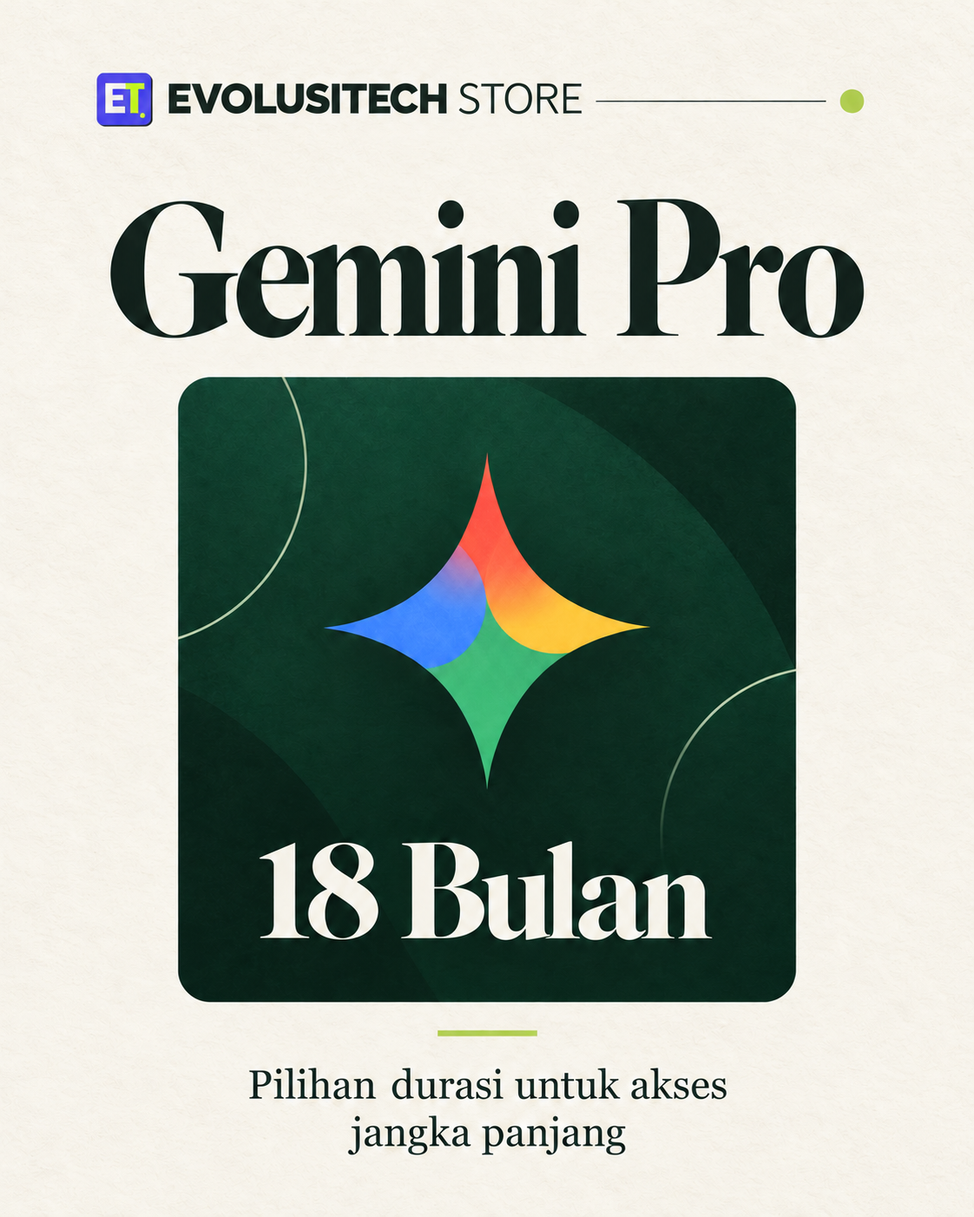
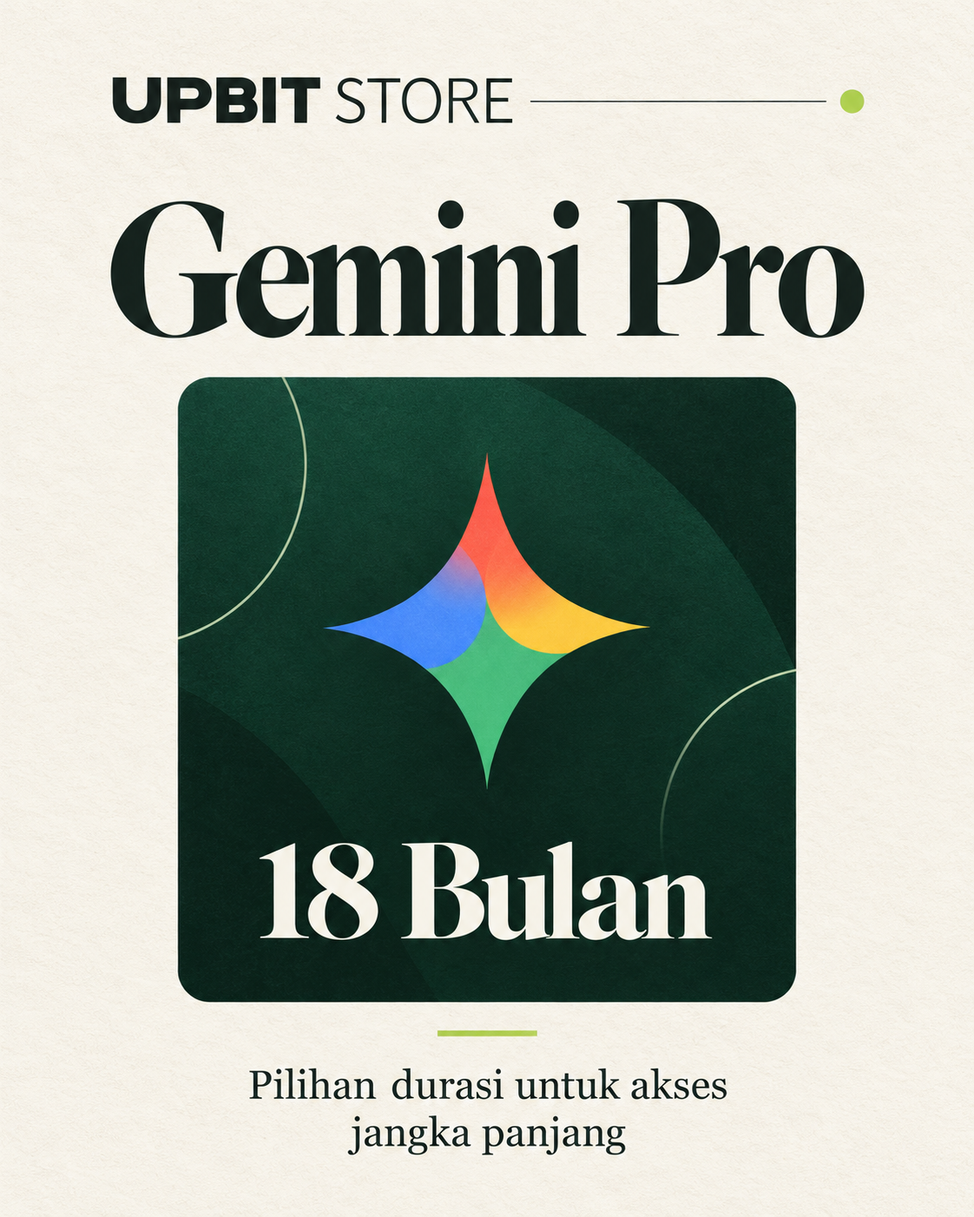
Revert "Rebrand storefront as EvolusiTech Store"
This reverts commit b58186610e1681eb4246e9f9dd9002b4fabe0f37.

diff --git a/app/src/i18n/translations.js b/app/src/i18n/translations.js
@@ -1,5 +1,5 @@
-// Kamus multi-bahasa EvolusiTech Store. Struktur per-key: { key: { en, zh, ja, id, ru, ms, hi, de, vi } }.
-// Brand & nama produk (EvolusiTech Store, Claude, ChatGPT, Gemini, AI) tidak diterjemahkan.
+// Kamus multi-bahasa Upbit Store. Struktur per-key: { key: { en, zh, ja, id, ru, ms, hi, de, vi } }.
+// Brand & nama produk (Upbit Store, Claude, ChatGPT, Gemini, AI) tidak diterjemahkan.
 
 // Daftar bahasa untuk switcher. `name` = nama asli bahasa, `tag` = label singkat.
 export const LANGS = [
@@ -93,11 +93,11 @@ export const T = {
   'footer.warranty': { en: 'Warranty', zh: '保障', ja: '保証', id: 'Garansi', ru: 'Гарантия', ms: 'Jaminan', hi: 'वारंटी', de: 'Garantie', vi: 'Bảo hành' },
   'footer.contact': { en: 'Contact', zh: '联系', ja: 'お問い合わせ', id: 'Kontak', ru: 'Контакты', ms: 'Hubungi', hi: 'संपर्क', de: 'Kontakt', vi: 'Liên hệ' },
   'footer.faq': { en: 'FAQ', zh: '常见问题', ja: 'よくある質問', id: 'FAQ', ru: 'Вопросы', ms: 'Soalan Lazim', hi: 'सामान्य प्रश्न', de: 'FAQ', vi: 'Câu hỏi' },
-  'footer.rights': { en: '© 2026 EvolusiTech Store. All rights reserved.', zh: '© 2026 EvolusiTech Store. 版权所有。', ja: '© 2026 EvolusiTech Store. 無断転載を禁じます。', id: '© 2026 EvolusiTech Store. Seluruh hak cipta dilindungi.', ru: '© 2026 EvolusiTech Store. Все права защищены.', ms: '© 2026 EvolusiTech Store. Hak cipta terpelihara.', hi: '© 2026 EvolusiTech Store. सर्वाधिकार सुरक्षित।', de: '© 2026 EvolusiTech Store. Alle Rechte vorbehalten.', vi: '© 2026 EvolusiTech Store. Bảo lưu mọi quyền.' },
+  'footer.rights': { en: '© 2026 Upbit Store. All rights reserved.', zh: '© 2026 Upbit Store. 版权所有。', ja: '© 2026 Upbit Store. 無断転載を禁じます。', id: '© 2026 Upbit Store. Seluruh hak cipta dilindungi.', ru: '© 2026 Upbit Store. Все права защищены.', ms: '© 2026 Upbit Store. Hak cipta terpelihara.', hi: '© 2026 Upbit Store. सर्वाधिकार सुरक्षित।', de: '© 2026 Upbit Store. Alle Rechte vorbehalten.', vi: '© 2026 Upbit Store. Bảo lưu mọi quyền.' },
   'footer.madeFor': { en: 'Built for digital creators & professionals.', zh: '为数字创作者与专业人士打造。', ja: 'デジタルクリエイター＆プロのために。', id: 'Dibuat untuk kreator & profesional digital.', ru: 'Создано для цифровых креаторов и профессионалов.', ms: 'Dibina untuk kreator & profesional digital.', hi: 'डिजिटल क्रिएटर्स और पेशेवरों के लिए बनाया गया।', de: 'Für digitale Kreative & Profis entwickelt.', vi: 'Dành cho nhà sáng tạo & chuyên gia số.' },
 
   // ---------- Auth ----------
-  'auth.welcome': { en: 'WELCOME TO EVOLUSITECH STORE', zh: '欢迎来到 EVOLUSITECH STORE', ja: 'EVOLUSITECH STORE へようこそ', id: 'SELAMAT DATANG DI EVOLUSITECH STORE', ru: 'ДОБРО ПОЖАЛОВАТЬ В EVOLUSITECH STORE', ms: 'SELAMAT DATANG KE EVOLUSITECH STORE', hi: 'EVOLUSITECH STORE में आपका स्वागत है', de: 'WILLKOMMEN BEI EVOLUSITECH STORE', vi: 'CHÀO MỪNG ĐẾN EVOLUSITECH STORE' },
+  'auth.welcome': { en: 'WELCOME TO UPBIT STORE', zh: '欢迎来到 UPBIT STORE', ja: 'UPBIT STORE へようこそ', id: 'SELAMAT DATANG DI UPBIT STORE', ru: 'ДОБРО ПОЖАЛОВАТЬ В UPBIT STORE', ms: 'SELAMAT DATANG KE UPBIT STORE', hi: 'UPBIT STORE में आपका स्वागत है', de: 'WILLKOMMEN BEI UPBIT STORE', vi: 'CHÀO MỪNG ĐẾN UPBIT STORE' },
   'auth.premiumBadge': { en: 'Premium AI Marketplace', zh: '高级 AI 市场', ja: 'プレミアムAIマーケット', id: 'Marketplace AI Premium', ru: 'Премиум AI-маркетплейс', ms: 'Pasaran AI Premium', hi: 'प्रीमियम AI मार्केटप्लेस', de: 'Premium-KI-Marktplatz', vi: 'Sàn AI cao cấp' },
   'auth.subtitle': { en: 'Access Claude, ChatGPT, Gemini, and dozens of other premium AI services — legal, instant, guaranteed.', zh: '畅享 Claude、ChatGPT、Gemini 等数十种高级 AI 服务 — 正版、即时、有保障。', ja: 'Claude、ChatGPT、Gemini など数十のプレミアムAIサービスにアクセス — 正規・即時・保証付き。', id: 'Akses Claude, ChatGPT, Gemini, dan puluhan layanan AI premium lain — legal, instan, bergaransi.', ru: 'Доступ к Claude, ChatGPT, Gemini и десяткам других премиум AI-сервисов — легально, мгновенно, с гарантией.', ms: 'Akses Claude, ChatGPT, Gemini, dan puluhan perkhidmatan AI premium lain — sah, segera, dijamin.', hi: 'Claude, ChatGPT, Gemini और दर्जनों अन्य प्रीमियम AI सेवाओं तक पहुंच — वैध, तुरंत, गारंटीड।', de: 'Zugang zu Claude, ChatGPT, Gemini und Dutzenden weiteren Premium-KI-Diensten — legal, sofort, garantiert.', vi: 'Truy cập Claude, ChatGPT, Gemini và hàng chục dịch vụ AI cao cấp khác — hợp pháp, tức thì, bảo đảm.' },
   'auth.feature1': { en: 'Full warranty on every product', zh: '每件产品全面保障', ja: '全製品に完全保証', id: 'Garansi penuh setiap produk', ru: 'Полная гарантия на каждый товар', ms: 'Jaminan penuh setiap produk', hi: 'हर उत्पाद पर पूर्ण वारंटी', de: 'Volle Garantie auf jedes Produkt', vi: 'Bảo hành đầy đủ mọi sản phẩm' },
@@ -107,7 +107,7 @@ export const T = {
   'auth.signInAccount': { en: 'Sign In', zh: '账户登录', ja: 'アカウントログイン', id: 'Masuk Akun', ru: 'Вход в аккаунт', ms: 'Log Masuk Akaun', hi: 'खाता साइन इन', de: 'Konto-Anmeldung', vi: 'Đăng nhập tài khoản' },
   'auth.signIn': { en: 'SIGN IN', zh: '登录', ja: 'ログイン', id: 'MASUK', ru: 'ВОЙТИ', ms: 'LOG MASUK', hi: 'साइन इन', de: 'ANMELDEN', vi: 'ĐĂNG NHẬP' },
   'auth.signInSubtitle': { en: 'Sign in with your Google account to start shopping premium digital products.', zh: '使用您的 Google 账户登录，开始选购高级数字产品。', ja: 'Googleアカウントでログインして、プレミアムなデジタル製品の購入を始めましょう。', id: 'Masuk dengan akun Google kamu untuk mulai belanja produk digital premium.', ru: 'Войдите через аккаунт Google, чтобы начать покупки премиум цифровых товаров.', ms: 'Log masuk dengan akaun Google anda untuk mula membeli produk digital premium.', hi: 'प्रीमियम डिजिटल उत्पाद खरीदना शुरू करने के लिए अपने Google खाते से साइन इन करें।', de: 'Melden Sie sich mit Ihrem Google-Konto an, um Premium-Digitalprodukte zu kaufen.', vi: 'Đăng nhập bằng tài khoản Google để bắt đầu mua sản phẩm số cao cấp.' },
-  'auth.terms': { en: "By continuing you agree to EvolusiTech Store's Terms & Privacy Policy.", zh: '继续即表示您同意 EvolusiTech Store 的条款与隐私政策。', ja: '続行すると、EvolusiTech Store の利用規約とプライバシーポリシーに同意したものとみなされます。', id: 'Dengan melanjutkan kamu menyetujui Ketentuan & Kebijakan Privasi EvolusiTech Store.', ru: 'Продолжая, вы соглашаетесь с Условиями и Политикой конфиденциальности EvolusiTech Store.', ms: 'Dengan meneruskan, anda bersetuju dengan Terma & Dasar Privasi EvolusiTech Store.', hi: 'जारी रखकर आप EvolusiTech Store की शर्तों और गोपनीयता नीति से सहमत होते हैं।', de: 'Indem Sie fortfahren, stimmen Sie den AGB & Datenschutzbestimmungen von EvolusiTech Store zu.', vi: 'Khi tiếp tục, bạn đồng ý với Điều khoản & Chính sách bảo mật của EvolusiTech Store.' },
+  'auth.terms': { en: "By continuing you agree to Upbit Store's Terms & Privacy Policy.", zh: '继续即表示您同意 Upbit Store 的条款与隐私政策。', ja: '続行すると、Upbit Store の利用規約とプライバシーポリシーに同意したものとみなされます。', id: 'Dengan melanjutkan kamu menyetujui Ketentuan & Kebijakan Privasi Upbit Store.', ru: 'Продолжая, вы соглашаетесь с Условиями и Политикой конфиденциальности Upbit Store.', ms: 'Dengan meneruskan, anda bersetuju dengan Terma & Dasar Privasi Upbit Store.', hi: 'जारी रखकर आप Upbit Store की शर्तों और गोपनीयता नीति से सहमत होते हैं।', de: 'Indem Sie fortfahren, stimmen Sie den AGB & Datenschutzbestimmungen von Upbit Store zu.', vi: 'Khi tiếp tục, bạn đồng ý với Điều khoản & Chính sách bảo mật của Upbit Store.' },
   'auth.accountAccess': { en: 'Account access', id: 'Akses akun' },
   'auth.createAccount': { en: 'Create account', id: 'Buat akun' },
   'auth.createAccountSubtitle': { en: 'Use a username, email, and password. No verification code is required.', id: 'Gunakan username, email, dan password. Tidak perlu kode verifikasi.' },
@@ -399,9 +399,9 @@ export const T = {
   'pd.related': { en: 'SIMILAR PRODUCTS', zh: '类似产品', ja: '関連製品', id: 'PRODUK SERUPA', ru: 'ПОХОЖИЕ ТОВАРЫ', ms: 'PRODUK SERUPA', hi: 'समान उत्पाद', de: 'ÄHNLICHE PRODUKTE', vi: 'SẢN PHẨM TƯƠNG TỰ' },
 
   // ---------- About ----------
-  'about.eyebrow': { en: 'About EvolusiTech Store', zh: '关于 EvolusiTech Store', ja: 'EvolusiTech Store について', id: 'Tentang EvolusiTech Store', ru: 'Об EvolusiTech Store', ms: 'Tentang EvolusiTech Store', hi: 'EvolusiTech Store के बारे में', de: 'Über EvolusiTech Store', vi: 'Về EvolusiTech Store' },
+  'about.eyebrow': { en: 'About Upbit Store', zh: '关于 Upbit Store', ja: 'Upbit Store について', id: 'Tentang Upbit Store', ru: 'Об Upbit Store', ms: 'Tentang Upbit Store', hi: 'Upbit Store के बारे में', de: 'Über Upbit Store', vi: 'Về Upbit Store' },
   'about.title': { en: 'PREMIUM DIGITAL PRODUCTS, INSTANT & GUARANTEED', zh: '高级数字产品，即时且有保障', ja: 'プレミアムなデジタル製品を即時・保証付きで', id: 'PRODUK DIGITAL PREMIUM, INSTAN & BERGARANSI', ru: 'ПРЕМИУМ ЦИФРОВЫЕ ТОВАРЫ, МГНОВЕННО И С ГАРАНТИЕЙ', ms: 'PRODUK DIGITAL PREMIUM, SEGERA & DIJAMIN', hi: 'प्रीमियम डिजिटल उत्पाद, तुरंत और गारंटीड', de: 'PREMIUM-DIGITALPRODUKTE, SOFORT & GARANTIERT', vi: 'SẢN PHẨM SỐ CAO CẤP, TỨC THÌ & BẢO ĐẢM' },
-  'about.intro': { en: 'EvolusiTech Store is a digital product marketplace selling premium AI accounts, software, and subscriptions — legal, verified, with full warranty and instant delivery.', zh: 'EvolusiTech Store 是一个数字产品市场，销售高级 AI 账户、软件和订阅 — 正版、已验证、提供完整保障和即时交付。', ja: 'EvolusiTech Store は、プレミアムなAIアカウント、ソフト、サブスクを販売するデジタル製品マーケットプレイスです — 正規・認証済み・完全保証・即時配信。', id: 'EvolusiTech Store adalah marketplace produk digital yang menjual akun AI premium, software, dan langganan — legal, terverifikasi, dengan garansi penuh dan proses instan.', ru: 'EvolusiTech Store — маркетплейс цифровых товаров: премиум AI-аккаунты, ПО и подписки — легально, проверено, с полной гарантией и мгновенной доставкой.', ms: 'EvolusiTech Store ialah pasaran produk digital yang menjual akaun AI premium, perisian, dan langganan — sah, disahkan, dengan jaminan penuh dan penghantaran segera.', hi: 'EvolusiTech Store एक डिजिटल उत्पाद मार्केटप्लेस है जो प्रीमियम AI खाते, सॉफ़्टवेयर और सब्सक्रिप्शन बेचता है — वैध, सत्यापित, पूर्ण वारंटी और तुरंत डिलीवरी के साथ।', de: 'EvolusiTech Store ist ein Marktplatz für digitale Produkte: Premium-KI-Konten, Software und Abos — legal, verifiziert, mit voller Garantie und sofortiger Lieferung.', vi: 'EvolusiTech Store là sàn sản phẩm số bán tài khoản AI cao cấp, phần mềm và gói đăng ký — hợp pháp, đã xác minh, bảo hành đầy đủ và giao ngay.' },
+  'about.intro': { en: 'Upbit Store is a digital product marketplace selling premium AI accounts, software, and subscriptions — legal, verified, with full warranty and instant delivery.', zh: 'Upbit Store 是一个数字产品市场，销售高级 AI 账户、软件和订阅 — 正版、已验证、提供完整保障和即时交付。', ja: 'Upbit Store は、プレミアムなAIアカウント、ソフト、サブスクを販売するデジタル製品マーケットプレイスです — 正規・認証済み・完全保証・即時配信。', id: 'Upbit Store adalah marketplace produk digital yang menjual akun AI premium, software, dan langganan — legal, terverifikasi, dengan garansi penuh dan proses instan.', ru: 'Upbit Store — маркетплейс цифровых товаров: премиум AI-аккаунты, ПО и подписки — легально, проверено, с полной гарантией и мгновенной доставкой.', ms: 'Upbit Store ialah pasaran produk digital yang menjual akaun AI premium, perisian, dan langganan — sah, disahkan, dengan jaminan penuh dan penghantaran segera.', hi: 'Upbit Store एक डिजिटल उत्पाद मार्केटप्लेस है जो प्रीमियम AI खाते, सॉफ़्टवेयर और सब्सक्रिप्शन बेचता है — वैध, सत्यापित, पूर्ण वारंटी और तुरंत डिलीवरी के साथ।', de: 'Upbit Store ist ein Marktplatz für digitale Produkte: Premium-KI-Konten, Software und Abos — legal, verifiziert, mit voller Garantie und sofortiger Lieferung.', vi: 'Upbit Store là sàn sản phẩm số bán tài khoản AI cao cấp, phần mềm và gói đăng ký — hợp pháp, đã xác minh, bảo hành đầy đủ và giao ngay.' },
   'about.howTitle': { en: 'HOW TO ORDER', zh: '如何下单', ja: '注文方法', id: 'CARA ORDER', ru: 'КАК ЗАКАЗАТЬ', ms: 'CARA MEMBELI', hi: 'ऑर्डर कैसे करें', de: 'SO BESTELLEN', vi: 'CÁCH ĐẶT HÀNG' },
   'about.howSub': { en: 'Just 4 easy steps to get your premium product.', zh: '只需 4 个简单步骤即可获得您的高级产品。', ja: 'たった4つの簡単なステップでプレミアム製品を入手。', id: 'Hanya 4 langkah mudah untuk mendapatkan produk premiummu.', ru: 'Всего 4 простых шага, чтобы получить премиум-продукт.', ms: 'Hanya 4 langkah mudah untuk dapatkan produk premium anda.', hi: 'अपना प्रीमियम उत्पाद पाने के लिए केवल 4 आसान चरण।', de: 'Nur 4 einfache Schritte zu Ihrem Premium-Produkt.', vi: 'Chỉ 4 bước đơn giản để nhận sản phẩm cao cấp của bạn.' },
   'about.step1Title': { en: 'Choose a product', zh: '选择产品', ja: '製品を選ぶ', id: 'Pilih produk', ru: 'Выберите товар', ms: 'Pilih produk', hi: 'उत्पाद चुनें', de: 'Produkt wählen', vi: 'Chọn sản phẩm' },
@@ -437,7 +437,7 @@ export const T = {
   'about.ctaBtn': { en: 'Open Catalog', zh: '打开目录', ja: 'カタログを開く', id: 'Buka Katalog', ru: 'Открыть каталог', ms: 'Buka Katalog', hi: 'कैटलॉग खोलें', de: 'Katalog öffnen', vi: 'Mở danh mục' },
   'about.eyebrow2': { en: 'About & How to Order', zh: '关于与购买指南', ja: '概要と注文方法', id: 'Tentang & Cara Order', ru: 'О нас и как заказать', ms: 'Tentang & Cara Membeli', hi: 'परिचय और ऑर्डर कैसे करें', de: 'Über uns & Bestellung', vi: 'Giới thiệu & Cách đặt' },
   'about.h1': { en: 'SHOPPING FOR DIGITAL PRODUCTS MADE EASY & SAFE', zh: '购买数字产品变得简单又安全', ja: 'デジタル製品の購入を簡単・安全に', id: 'BELANJA PRODUK DIGITAL JADI MUDAH & AMAN', ru: 'ПОКУПКА ЦИФРОВЫХ ТОВАРОВ — ЛЕГКО И БЕЗОПАСНО', ms: 'MEMBELI PRODUK DIGITAL JADI MUDAH & SELAMAT', hi: 'डिजिटल उत्पादों की खरीदारी आसान और सुरक्षित', de: 'DIGITALE PRODUKTE EINFACH & SICHER KAUFEN', vi: 'MUA SẢN PHẨM SỐ DỄ DÀNG & AN TOÀN' },
-  'about.introReal': { en: 'EvolusiTech Store makes it easy to get AI access, software, and premium subscriptions at the best price. Follow the 4 steps below to order.', zh: 'EvolusiTech Store 让您以最优价格轻松获得 AI 访问、软件和高级订阅。按照下面 4 个步骤下单。', ja: 'EvolusiTech Store なら、AIアクセス、ソフト、プレミアムサブスクを最安値で簡単に入手できます。下の4ステップでご注文ください。', id: 'EvolusiTech Store hadir untuk memudahkan kamu mendapatkan akses AI, software, dan langganan premium dengan harga terbaik. Ikuti 4 langkah di bawah untuk memesan.', ru: 'EvolusiTech Store помогает легко получить доступ к AI, ПО и премиум-подпискам по лучшей цене. Следуйте 4 шагам ниже.', ms: 'EvolusiTech Store memudahkan anda mendapatkan akses AI, perisian, dan langganan premium pada harga terbaik. Ikut 4 langkah di bawah untuk memesan.', hi: 'EvolusiTech Store आपके लिए AI एक्सेस, सॉफ़्टवेयर और प्रीमियम सब्सक्रिप्शन सर्वोत्तम मूल्य पर पाना आसान बनाता है। ऑर्डर के लिए नीचे 4 चरण अपनाएं।', de: 'EvolusiTech Store macht es einfach, KI-Zugang, Software und Premium-Abos zum Bestpreis zu erhalten. Folgen Sie den 4 Schritten unten.', vi: 'EvolusiTech Store giúp bạn dễ dàng có quyền truy cập AI, phần mềm và gói cao cấp với giá tốt nhất. Làm theo 4 bước dưới để đặt hàng.' },
+  'about.introReal': { en: 'Upbit Store makes it easy to get AI access, software, and premium subscriptions at the best price. Follow the 4 steps below to order.', zh: 'Upbit Store 让您以最优价格轻松获得 AI 访问、软件和高级订阅。按照下面 4 个步骤下单。', ja: 'Upbit Store なら、AIアクセス、ソフト、プレミアムサブスクを最安値で簡単に入手できます。下の4ステップでご注文ください。', id: 'Upbit Store hadir untuk memudahkan kamu mendapatkan akses AI, software, dan langganan premium dengan harga terbaik. Ikuti 4 langkah di bawah untuk memesan.', ru: 'Upbit Store помогает легко получить доступ к AI, ПО и премиум-подпискам по лучшей цене. Следуйте 4 шагам ниже.', ms: 'Upbit Store memudahkan anda mendapatkan akses AI, perisian, dan langganan premium pada harga terbaik. Ikut 4 langkah di bawah untuk memesan.', hi: 'Upbit Store आपके लिए AI एक्सेस, सॉफ़्टवेयर और प्रीमियम सब्सक्रिप्शन सर्वोत्तम मूल्य पर पाना आसान बनाता है। ऑर्डर के लिए नीचे 4 चरण अपनाएं।', de: 'Upbit Store macht es einfach, KI-Zugang, Software und Premium-Abos zum Bestpreis zu erhalten. Folgen Sie den 4 Schritten unten.', vi: 'Upbit Store giúp bạn dễ dàng có quyền truy cập AI, phần mềm và gói cao cấp với giá tốt nhất. Làm theo 4 bước dưới để đặt hàng.' },
   'about.ctaText': { en: 'Browse the full catalog and get your premium product now.', zh: '浏览完整目录，立即获得您的高级产品。', ja: '全カタログを見て、今すぐプレミアム製品を入手しましょう。', id: 'Jelajahi katalog lengkap dan dapatkan produk premiummu sekarang.', ru: 'Просмотрите полный каталог и получите премиум-продукт сейчас.', ms: 'Layari katalog penuh dan dapatkan produk premium anda sekarang.', hi: 'पूरा कैटलॉग ब्राउज़ करें और अभी अपना प्रीमियम उत्पाद पाएं।', de: 'Durchsuchen Sie den vollständigen Katalog und holen Sie sich jetzt Ihr Premium-Produkt.', vi: 'Duyệt toàn bộ danh mục và nhận sản phẩm cao cấp của bạn ngay.' },
 
   // ---------- Notifikasi (lonceng) ----------
@@ -467,7 +467,7 @@ export const T = {
   'home.viewAll': { en: 'View all products', zh: '查看所有产品', ja: 'すべての製品を見る', id: 'Lihat semua produk', ru: 'Все товары', ms: 'Lihat semua produk', hi: 'सभी उत्पाद देखें', de: 'Alle Produkte ansehen', vi: 'Xem tất cả sản phẩm' },
   'home.ctaBadge': { en: 'Start Today', zh: '今天开始', ja: '今日から始める', id: 'Mulai Hari Ini', ru: 'Начните сегодня', ms: 'Mula Hari Ini', hi: 'आज शुरू करें', de: 'Heute starten', vi: 'Bắt đầu hôm nay' },
   'home.ctaTitle': { en: 'BOOST YOUR PRODUCTIVITY WITH TRUSTED PREMIUM ACCOUNTS', zh: '用值得信赖的高级账户提升您的生产力', ja: '信頼できるプレミアムアカウントで生産性を向上', id: 'UPGRADE PRODUKTIVITASMU DENGAN AKUN PREMIUM TERPERCAYA', ru: 'ПОВЫСЬТЕ ПРОДУКТИВНОСТЬ С НАДЁЖНЫМИ ПРЕМИУМ-АККАУНТАМИ', ms: 'TINGKATKAN PRODUKTIVITI ANDA DENGAN AKAUN PREMIUM DIPERCAYAI', hi: 'विश्वसनीय प्रीमियम खातों से अपनी उत्पादकता बढ़ाएं', de: 'STEIGERN SIE IHRE PRODUKTIVITÄT MIT VERTRAUENSWÜRDIGEN PREMIUM-KONTEN', vi: 'TĂNG NĂNG SUẤT VỚI TÀI KHOẢN CAO CẤP ĐÁNG TIN CẬY' },
-  'home.ctaText': { en: 'Thousands of customers already trust EvolusiTech Store for their digital needs. Now it’s your turn.', zh: '数千名客户已信赖 EvolusiTech Store 满足他们的数字需求。现在轮到您了。', ja: '何千ものお客様がデジタルニーズで EvolusiTech Store を信頼しています。次はあなたの番です。', id: 'Ribuan pelanggan sudah mempercayakan kebutuhan digital mereka pada EvolusiTech Store. Giliranmu sekarang.', ru: 'Тысячи клиентов уже доверяют EvolusiTech Store свои цифровые нужды. Теперь ваша очередь.', ms: 'Ribuan pelanggan sudah mempercayai EvolusiTech Store untuk keperluan digital mereka. Kini giliran anda.', hi: 'हजारों ग्राहक अपनी डिजिटल जरूरतों के लिए EvolusiTech Store पर भरोसा करते हैं। अब आपकी बारी।', de: 'Tausende Kunden vertrauen EvolusiTech Store bereits für ihre digitalen Bedürfnisse. Jetzt sind Sie dran.', vi: 'Hàng nghìn khách hàng đã tin tưởng EvolusiTech Store cho nhu cầu số. Giờ đến lượt bạn.' },
+  'home.ctaText': { en: 'Thousands of customers already trust Upbit Store for their digital needs. Now it’s your turn.', zh: '数千名客户已信赖 Upbit Store 满足他们的数字需求。现在轮到您了。', ja: '何千ものお客様がデジタルニーズで Upbit Store を信頼しています。次はあなたの番です。', id: 'Ribuan pelanggan sudah mempercayakan kebutuhan digital mereka pada Upbit Store. Giliranmu sekarang.', ru: 'Тысячи клиентов уже доверяют Upbit Store свои цифровые нужды. Теперь ваша очередь.', ms: 'Ribuan pelanggan sudah mempercayai Upbit Store untuk keperluan digital mereka. Kini giliran anda.', hi: 'हजारों ग्राहक अपनी डिजिटल जरूरतों के लिए Upbit Store पर भरोसा करते हैं। अब आपकी बारी।', de: 'Tausende Kunden vertrauen Upbit Store bereits für ihre digitalen Bedürfnisse. Jetzt sind Sie dran.', vi: 'Hàng nghìn khách hàng đã tin tưởng Upbit Store cho nhu cầu số. Giờ đến lượt bạn.' },
   'home.ctaBtn': { en: 'Explore Catalog', zh: '浏览目录', ja: 'カタログを見る', id: 'Jelajahi Katalog', ru: 'Открыть каталог', ms: 'Terokai Katalog', hi: 'कैटलॉग देखें', de: 'Katalog entdecken', vi: 'Khám phá danh mục' },
 
   // ---------- Sort ----------

diff --git a/server/src/telegramBot.js b/server/src/telegramBot.js
@@ -1,5 +1,5 @@
 // ═══════════════════════════════════════════════════════════════════
-// BOT TELEGRAM EVOLUSITECH STORE — versi serverless (webhook, tanpa VPS)
+// BOT TELEGRAM UPBIT STORE — versi serverless (webhook, tanpa VPS)
 // Satu dompet dengan website: saldo, check-in, order = database Neon.
 // State percakapan disimpan di tabel TelegramState (serverless tanpa memori).
 // SetWebhook:
@@ -137,20 +137,20 @@ const LANGS = {
 }
 const S = {
   welcome: {
-    id: '✨ <b>Selamat Datang di EvolusiTech Store!</b>\n━━━━━━━━━━━━━━━━━━\n👤 <b>Tamu (Guest)</b>\n💰 Saldo: <b>Rp 0 (Mode Tamu)</b>\n🔗 Status: <b>Belum Tertaut</b>\n\n🛍 <i>Jelajahi katalog & flash sale langsung di bawah!</i>\n💡 <i>Tautkan akun website kapan saja untuk sinkronisasi saldo & check-in.</i>\n\nPilih menu di bawah 👇',
-    en: '✨ <b>Welcome to EvolusiTech Store!</b>\n━━━━━━━━━━━━━━━━━━\n👤 <b>Guest</b>\n💰 Balance: <b>Rp 0 (Guest Mode)</b>\n🔗 Status: <b>Not Linked</b>\n\n🛍 <i>Browse products & flash sale below!</i>\n💡 <i>Link your website account anytime to sync balance & check-in.</i>\n\nPick a menu below 👇',
+    id: '✨ <b>Selamat Datang di Upbit Store!</b>\n━━━━━━━━━━━━━━━━━━\n👤 <b>Tamu (Guest)</b>\n💰 Saldo: <b>Rp 0 (Mode Tamu)</b>\n🔗 Status: <b>Belum Tertaut</b>\n\n🛍 <i>Jelajahi katalog & flash sale langsung di bawah!</i>\n💡 <i>Tautkan akun website kapan saja untuk sinkronisasi saldo & check-in.</i>\n\nPilih menu di bawah 👇',
+    en: '✨ <b>Welcome to Upbit Store!</b>\n━━━━━━━━━━━━━━━━━━\n👤 <b>Guest</b>\n💰 Balance: <b>Rp 0 (Guest Mode)</b>\n🔗 Status: <b>Not Linked</b>\n\n🛍 <i>Browse products & flash sale below!</i>\n💡 <i>Link your website account anytime to sync balance & check-in.</i>\n\nPick a menu below 👇',
   },
   menuLinked: {
-    id: '✨ <b>EvolusiTech Store — Bot Resmi</b>\n━━━━━━━━━━━━━━━━━━\n👤 <b>{name}</b>\n💰 Saldo: <b>{balance}</b>\n🔗 Status: <b>Terhubung ke Website ✅</b>\n\nSilakan pilih menu di bawah untuk berbelanja 👇',
-    en: '✨ <b>EvolusiTech Store — Official Bot</b>\n━━━━━━━━━━━━━━━━━━\n👤 <b>{name}</b>\n💰 Balance: <b>{balance}</b>\n🔗 Status: <b>Connected to Website ✅</b>\n\nPick a menu below 👇',
+    id: '✨ <b>Upbit Store — Bot Resmi</b>\n━━━━━━━━━━━━━━━━━━\n👤 <b>{name}</b>\n💰 Saldo: <b>{balance}</b>\n🔗 Status: <b>Terhubung ke Website ✅</b>\n\nSilakan pilih menu di bawah untuk berbelanja 👇',
+    en: '✨ <b>Upbit Store — Official Bot</b>\n━━━━━━━━━━━━━━━━━━\n👤 <b>{name}</b>\n💰 Balance: <b>{balance}</b>\n🔗 Status: <b>Connected to Website ✅</b>\n\nPick a menu below 👇',
   },
   menuGuest: {
-    id: '✨ <b>Selamat Datang di EvolusiTech Store!</b>\n━━━━━━━━━━━━━━━━━━\n👤 <b>Tamu (Guest)</b>\n💰 Saldo: <b>Rp 0 (Mode Tamu)</b>\n🔗 Status: <b>Belum Tertaut</b>\n\n🛍 <i>Jelajahi katalog & flash sale langsung di bawah!</i>\n💡 <i>Tautkan akun websitemu kapan saja untuk sinkronisasi saldo & check-in.</i>\n\nPilih menu di bawah 👇',
-    en: '✨ <b>Welcome to EvolusiTech Store!</b>\n━━━━━━━━━━━━━━━━━━\n👤 <b>Guest</b>\n💰 Balance: <b>Rp 0 (Guest Mode)</b>\n🔗 Status: <b>Not Linked</b>\n\n🛍 <i>Browse products & flash sale below!</i>\n💡 <i>Link your website account anytime to sync balance & check-in.</i>\n\nPick a menu below 👇',
+    id: '✨ <b>Selamat Datang di Upbit Store!</b>\n━━━━━━━━━━━━━━━━━━\n👤 <b>Tamu (Guest)</b>\n💰 Saldo: <b>Rp 0 (Mode Tamu)</b>\n🔗 Status: <b>Belum Tertaut</b>\n\n🛍 <i>Jelajahi katalog & flash sale langsung di bawah!</i>\n💡 <i>Tautkan akun websitemu kapan saja untuk sinkronisasi saldo & check-in.</i>\n\nPilih menu di bawah 👇',
+    en: '✨ <b>Welcome to Upbit Store!</b>\n━━━━━━━━━━━━━━━━━━\n👤 <b>Guest</b>\n💰 Balance: <b>Rp 0 (Guest Mode)</b>\n🔗 Status: <b>Not Linked</b>\n\n🛍 <i>Browse products & flash sale below!</i>\n💡 <i>Link your website account anytime to sync balance & check-in.</i>\n\nPick a menu below 👇',
   },
   menu: {
-    id: '✨ <b>EvolusiTech Store</b>\n━━━━━━━━━━━━━━━━━━\n👤 <b>{name}</b>\n💰 Saldo: <b>{balance}</b>\n\nPilih menu di bawah 👇',
-    en: '✨ <b>EvolusiTech Store</b>\n━━━━━━━━━━━━━━━━━━\n👤 <b>{name}</b>\n💰 Balance: <b>{balance}</b>\n\nPick a menu below 👇',
+    id: '✨ <b>Upbit Store</b>\n━━━━━━━━━━━━━━━━━━\n👤 <b>{name}</b>\n💰 Saldo: <b>{balance}</b>\n\nPilih menu di bawah 👇',
+    en: '✨ <b>Upbit Store</b>\n━━━━━━━━━━━━━━━━━━\n👤 <b>{name}</b>\n💰 Balance: <b>{balance}</b>\n\nPick a menu below 👇',
   },
   notLinked: {
     id: '🔐 <b>Akun belum terhubung</b>\n\nTekan tombol <b>🔗 Hubungkan Akun Website</b> di bawah ini → kamu dibawa ke website → setelah login, akun otomatis tersambung ke Telegram ini.\n\n✨ Bebas pakai Telegram siapa saja — asal jadi!',
@@ -173,8 +173,8 @@ const S = {
     en: '🔐 <b>Link Account to Complete Order</b>\n━━━━━━━━━━━━━━━━━━\nA website account is required so login credentials can be securely delivered to your email.\n\nTap below to link your website account in 1 click, or buy directly on the website:',
   },
   linked: {
-    id: '🎉 <b>Akun berhasil terhubung!</b>\n━━━━━━━━━━━━━━━━━━\n👤 {name}\n💰 Saldo: <b>{balance}</b>{migrated}\n\nSelamat bergabung resmi di EvolusiTech Store 🛍',
-    en: '🎉 <b>Account linked successfully!</b>\n━━━━━━━━━━━━━━━━━━\n👤 {name}\n💰 Balance: <b>{balance}</b>{migrated}\n\nWelcome officially to EvolusiTech Store 🛍',
+    id: '🎉 <b>Akun berhasil terhubung!</b>\n━━━━━━━━━━━━━━━━━━\n👤 {name}\n💰 Saldo: <b>{balance}</b>{migrated}\n\nSelamat bergabung resmi di Upbit Store 🛍',
+    en: '🎉 <b>Account linked successfully!</b>\n━━━━━━━━━━━━━━━━━━\n👤 {name}\n💰 Balance: <b>{balance}</b>{migrated}\n\nWelcome officially to Upbit Store 🛍',
   },
   migrated: {
     id: '\n🎁 Saldo lama bot <b>{amount}</b> sudah dipindahkan ke akun website kamu.',
@@ -264,7 +264,7 @@ async function spendOf(userId) {
 // Fitur tarik saldo (withdraw) dihapus — saldo hanya untuk belanja di toko.
 
 // ── Menu utama ──
-const BANNER_URL = STORE_URL + '/evolusitech-store-mark.png'
+const BANNER_URL = STORE_URL + '/logo.png'
 // Peta emoji kategori biar tombol katalog lebih hidup
 const CAT_EMOJI = [
   [/ai|asisten|assistant|chatbot/i, '🤖'],

diff --git a/app/src/index.css b/app/src/index.css
@@ -1,4 +1,4 @@
-/* ============ EvolusiTech Store — Design Tokens ============ */
+/* ============ Upbit Store — Design Tokens ============ */
 :root {
   --bg: #efece6;
   --bg-2: #e7e3da;
@@ -318,10 +318,11 @@ ul { list-style: none; }
 .site-nav.is-scrolled .brand-logo { height: 36px; }
 @media (max-width: 520px) { .brand-logo { height: 36px; } }
 
-/* EvolusiTech Store mark + wordmark. Live text stays crisp at every size. */
+/* Upbit Store mark + wordmark: the generated mark identifies the exchange/store idea;
+   live text keeps the name crisp at every size and makes it accessible to screen readers. */
 .brand-lockup { display: inline-flex; align-items: center; gap: 9px; line-height: 1; }
 .brand-mark { width: 38px; height: 38px; object-fit: contain; display: block; }
-.brand-wordmark { display: inline-flex; align-items: baseline; gap: 5px; font-family: var(--font-display); font-size: 16px; font-weight: 800; letter-spacing: -.035em; color: var(--ink); }
+.brand-wordmark { display: inline-flex; align-items: baseline; gap: 5px; font-family: var(--font-display); font-size: 17px; font-weight: 800; letter-spacing: -.025em; color: var(--ink); }
 .brand-wordmark span:first-child { color: var(--indigo); }
 .brand-wordmark span:last-child { color: var(--ink); }
 .brand-lockup-light .brand-wordmark { color: var(--bg); }
@@ -332,21 +333,8 @@ ul { list-style: none; }
 .sr-only { position: absolute; width: 1px; height: 1px; padding: 0; margin: -1px; overflow: hidden; clip: rect(0, 0, 0, 0); white-space: nowrap; border: 0; }
 @media (max-width: 520px) {
   .brand-lockup { gap: 7px; }
-  .brand-mark { width: 30px; height: 30px; }
-  .brand-wordmark {
-    flex-direction: column;
-    align-items: flex-start;
-    gap: 2px;
-    font-size: 10.5px;
-    line-height: .9;
-    letter-spacing: -.025em;
-  }
-  .brand-wordmark span:last-child { font-size: 8px; letter-spacing: .12em; }
-}
-@media (max-width: 360px) {
-  .site-nav-inner { padding-inline: 10px; }
-  .site-nav-inner > div:last-child { gap: 6px !important; }
-  .site-nav-inner > div:last-child > a[href="/cart"] { padding: 8px 10px !important; }
+  .brand-mark { width: 34px; height: 34px; }
+  .brand-wordmark { font-size: 15px; gap: 4px; }
 }
 
 /* ============ Mobile nav card dropdown ============ */

diff --git a/server/src/mailer.js b/server/src/mailer.js
@@ -1,7 +1,7 @@
 import nodemailer from 'nodemailer'
 
 const { SMTP_HOST, SMTP_PORT, SMTP_USER, SMTP_PASS, MAIL_FROM, CLIENT_ORIGIN } = process.env
-const FROM = MAIL_FROM || 'EvolusiTech Store <no-reply@upbitstore.local>'
+const FROM = MAIL_FROM || 'Upbit Store <no-reply@upbitstore.local>'
 const SITE = (CLIENT_ORIGIN || 'http://localhost:5173').split(',')[0]
 
 // Transport hanya dibuat bila SMTP dikonfigurasi. Tanpa itu → mode log (dev).
@@ -35,14 +35,14 @@ const shell = (title, bodyHtml) => `
 <div style="background:#efece6;padding:28px;font-family:Inter,Arial,sans-serif;color:#2b2b28">
   <div style="max-width:560px;margin:0 auto;background:#fff;border:1.5px solid #2b2b28;border-radius:18px;overflow:hidden">
     <div style="background:#2b2b28;padding:18px 24px">
-      <span style="font-family:'Space Grotesk',Arial,sans-serif;font-weight:700;font-size:18px;color:#fff;letter-spacing:.02em">EVOLUSITECH <span style="color:#c5f82a">STORE</span></span>
+      <span style="font-family:'Space Grotesk',Arial,sans-serif;font-weight:700;font-size:18px;color:#fff;letter-spacing:.02em">UPBIT <span style="color:#c5f82a">STORE</span></span>
     </div>
     <div style="padding:24px">
       <h1 style="font-size:19px;margin:0 0 12px">${title}</h1>
       ${bodyHtml}
     </div>
     <div style="padding:16px 24px;border-top:1px solid #e0ddd4;color:#8a887e;font-size:12px">
-      Email otomatis dari EvolusiTech Store. Mohon jangan balas email ini.
+      Email otomatis dari Upbit Store. Mohon jangan balas email ini.
     </div>
   </div>
 </div>`
@@ -64,7 +64,7 @@ export function sendOrderCreated(order) {
     </table>
     <a href="${SITE}/orders/${order.id}" style="display:inline-block;background:#4f46e5;color:#fff;text-decoration:none;font-weight:600;padding:12px 22px;border-radius:999px;font-size:14px">Lihat status pesanan</a>
   `)
-  send(order.deliveryEmail, `Pesanan ${order.id} diterima — EvolusiTech Store`, html)
+  send(order.deliveryEmail, `Pesanan ${order.id} diterima — Upbit Store`, html)
 }
 
 export function sendOrderCompleted(order) {

diff --git a/app/src/components/ReceiptModal.jsx b/app/src/components/ReceiptModal.jsx
@@ -54,15 +54,15 @@ export default function ReceiptModal({ order, onClose }) {
       // Logo (file lokal di /public — aman dibaca sebagai gambar)
       try {
         const img = new Image()
-        img.src = '/evolusitech-store-mark.png'
+        img.src = '/logo.png'
         await new Promise((ok, err) => { img.onload = ok; img.onerror = err })
         doc.addImage(img, 'PNG', 40, 36, 34, 34)
       } catch { /* logo gagal → lanjut tanpa logo */ }
 
       doc.setFont('helvetica', 'bold'); doc.setFontSize(17)
-      doc.text('EVOLUSITECH STORE', 84, 50)
+      doc.text('UPBIT STORE', 84, 50)
       doc.setFont('helvetica', 'normal'); doc.setFontSize(9); doc.setTextColor(110)
-      doc.text('Marketplace Produk Digital  ·  EvolusiTech Store', 84, 63)
+      doc.text('Marketplace Produk Digital  ·  Upbit Store', 84, 63)
       doc.setTextColor(20)
 
       y = 92
@@ -157,10 +157,10 @@ export default function ReceiptModal({ order, onClose }) {
       }}>
         {/* Kop struk */}
         <div style={{ display: 'flex', alignItems: 'center', gap: 11 }}>
-          <img src="/evolusitech-store-mark.svg" alt="Logo EvolusiTech Store" style={{ width: 40, height: 40, objectFit: 'contain' }} />
+          <img src="/upbit-store-mark.png" alt="Logo Upbit Store" style={{ width: 40, height: 40, objectFit: 'contain' }} />
           <div style={{ flex: 1 }}>
-            <div style={{ fontWeight: 900, fontSize: 16, letterSpacing: '.04em' }}>EVOLUSITECH STORE</div>
-            <div style={{ fontSize: 10.5, color: '#6f6f68' }}>Marketplace Produk Digital · EvolusiTech Store</div>
+            <div style={{ fontWeight: 900, fontSize: 16, letterSpacing: '.04em' }}>UPBIT STORE</div>
+            <div style={{ fontSize: 10.5, color: '#6f6f68' }}>Marketplace Produk Digital · Upbit Store</div>
           </div>
         </div>
 

diff --git a/app/index.html b/app/index.html
@@ -2,14 +2,14 @@
 <html lang="id">
   <head>
     <meta charset="UTF-8" />
-    <link rel="icon" type="image/svg+xml" href="/evolusitech-store-mark.svg" />
+    <link rel="icon" type="image/png" href="/upbit-store-mark.png" />
     <link rel="shortcut icon" href="/favicon.ico" />
     <meta name="viewport" content="width=device-width, initial-scale=1.0" />
-    <meta name="description" content="EvolusiTech Store, marketplace produk digital premium untuk akun AI, software, dan langganan terverifikasi." />
+    <meta name="description" content="Upbit Store, marketplace produk digital premium untuk akun AI, software, dan langganan terverifikasi." />
     <link rel="preconnect" href="https://fonts.googleapis.com" />
     <link rel="preconnect" href="https://fonts.gstatic.com" crossorigin />
     <link href="https://fonts.googleapis.com/css2?family=Inter:wght@400;500;600;700&family=Space+Grotesk:wght@500;600;700&display=swap" rel="stylesheet" />
-    <title>EvolusiTech Store | Marketplace Produk Digital</title>
+    <title>Upbit Store | Marketplace Produk Digital</title>
   </head>
   <body>
     <div id="root"></div>

diff --git a/app/src/components/AdminLayout.jsx b/app/src/components/AdminLayout.jsx
@@ -42,9 +42,9 @@ export default function AdminLayout({ children }) {
       {/* ===== Sidebar ===== */}
       <aside className={`admin-sidebar ${open ? 'is-open' : ''}`}>
         <div className="admin-brand">
-          <span className="admin-brand-mark"><img src="/evolusitech-store-mark.svg" alt="" width="28" height="28" /></span>
+          <span className="admin-brand-mark"><img src="/upbit-store-mark.png" alt="" width="28" height="28" /></span>
           <div>
-            <div className="admin-brand-name">EvolusiTech Store</div>
+            <div className="admin-brand-name">Upbit Store</div>
             <div className="admin-brand-sub">Admin Panel</div>
           </div>
           <button className="admin-sidebar-close" onClick={() => setOpen(false)} aria-label="Tutup menu">

diff --git a/app/src/pages/Auth.jsx b/app/src/pages/Auth.jsx
@@ -66,7 +66,7 @@ export default function Auth() {
           <Asterisk size={40} color="var(--lime)" spin />
         </div>
 
-        <Link to="/" aria-label="EvolusiTech Store" style={{ position: 'relative', zIndex: 2 }}>
+        <Link to="/" aria-label="Upbit Store" style={{ position: 'relative', zIndex: 2 }}>
           <Brand light />
         </Link>
 
@@ -101,7 +101,7 @@ export default function Auth() {
           </div>
         </div>
 
-        <span style={{ color: '#86857c', fontSize: 13, position: 'relative', zIndex: 2 }}>© 2026 EvolusiTech Store</span>
+        <span style={{ color: '#86857c', fontSize: 13, position: 'relative', zIndex: 2 }}>© 2026 Upbit Store</span>
       </aside>
 
       {/* Right panel — Google login only */}

diff --git a/app/src/components/Brand.jsx b/app/src/components/Brand.jsx
@@ -1,11 +1,11 @@
 export default function Brand({ light = false, compact = false, className = '' }) {
   return (
     <span className={`brand-lockup ${light ? 'brand-lockup-light' : ''} ${compact ? 'brand-lockup-compact' : ''} ${className}`.trim()}>
-      <img src="/evolusitech-store-mark.svg" alt="" className="brand-mark" aria-hidden="true" />
+      <img src="/upbit-store-mark.png" alt="" className="brand-mark" aria-hidden="true" />
       <span className="brand-wordmark" aria-hidden="true">
-        <span>EVOLUSITECH</span><span>STORE</span>
+        <span>UPBIT</span><span>STORE</span>
       </span>
-      <span className="sr-only">EvolusiTech Store</span>
+      <span className="sr-only">Upbit Store</span>
     </span>
   )
 }

diff --git a/app/src/pages/Balance.jsx b/app/src/pages/Balance.jsx
@@ -614,7 +614,7 @@ export default function Balance() {
                     )}
                     {tuMethod === 'alipay' && (
                       <div className="text-muted" style={{ fontSize: 12.5, padding: '2px 4px' }}>
-                        Alipay: bayar ke merchant <b>EvolusiTech Store</b> sebesar <b>{formatCurrency(tuTotal, 'id')}</b>, lalu isi nomor referensi di langkah berikutnya.
+                        Alipay: bayar ke merchant <b>Upbit Store</b> sebesar <b>{formatCurrency(tuTotal, 'id')}</b>, lalu isi nomor referensi di langkah berikutnya.
                       </div>
                     )}
                     {tuMethod === 'paygo' && (

diff --git a/app/src/data/payment.js b/app/src/data/payment.js
@@ -1,4 +1,4 @@
-// Konfigurasi pembayaran EvolusiTech Store.
+// Konfigurasi pembayaran Upbit Store.
 // Dua metode: QRIS & Crypto (BNB / USDT on BNB Smart Chain).
 
 // Fee pembayaran (payment gateway) — flat Rupiah, ditambahkan ke total saat checkout.
@@ -22,7 +22,7 @@ function crc16(str) {
 }
 
 export const QRIS = {
-  merchant: 'EvolusiTech Store',
+  merchant: 'Upbit Store',
   nmid: 'ID1026568515229',
   // QRIS DINAMIS: sisipkan nominal (tag 54), ubah jadi dynamic (POI 11→12),
   // lalu hitung ulang CRC. Hasilnya nominal terisi otomatis di app pembayaran

diff --git a/server/src/index.js b/server/src/index.js
@@ -125,7 +125,7 @@ app.use((req, res) => res.status(404).json({ error: 'Not found' }))
 // sebagai handler — Vercel set process.env.VERCEL otomatis.
 const PORT = process.env.PORT || 4000
 if (!process.env.VERCEL) {
-  app.listen(PORT, () => console.log(`EvolusiTech Store API berjalan di http://localhost:${PORT}`))
+  app.listen(PORT, () => console.log(`Upbit Store API berjalan di http://localhost:${PORT}`))
   startRatingShuffler() // acak rating + refresh tanggal + tambah ulasan harian (1×/hari)
 }
 
